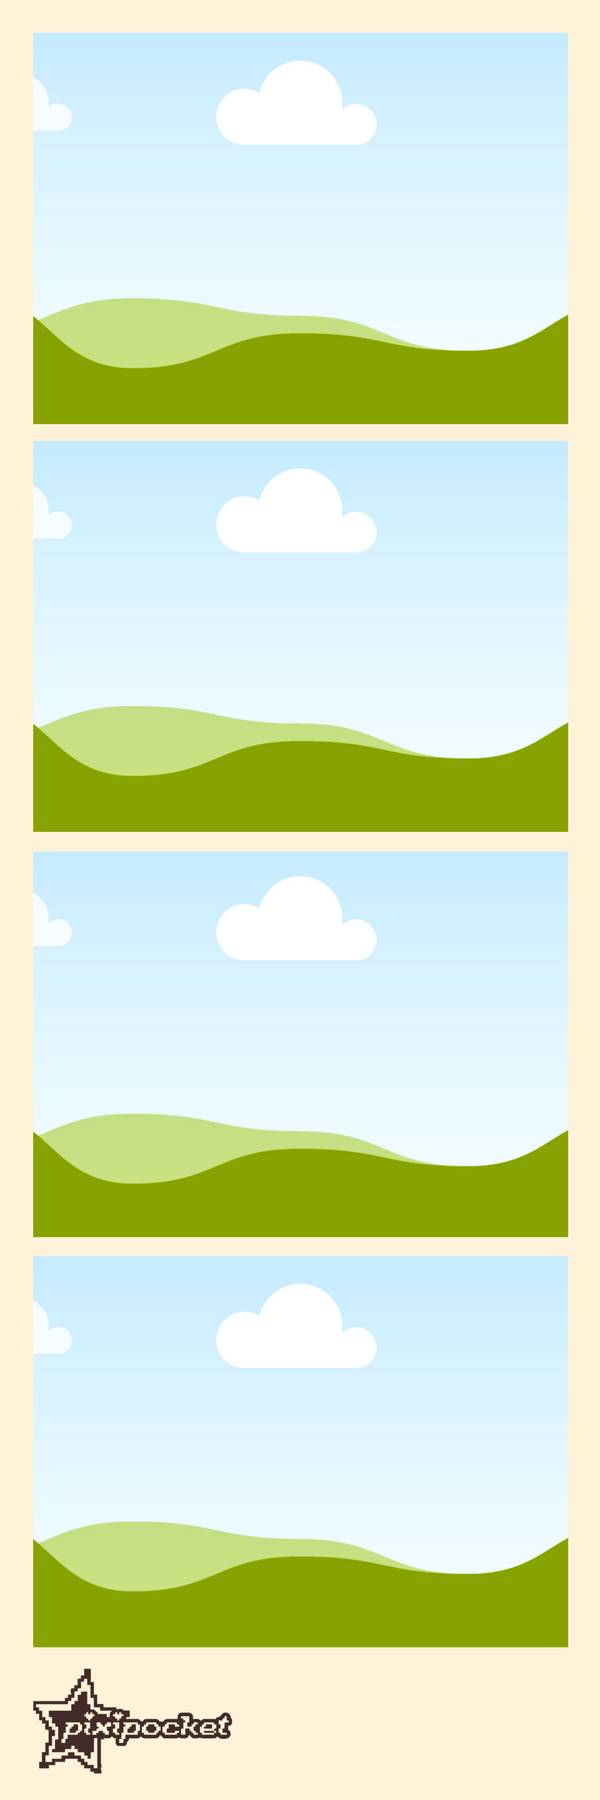
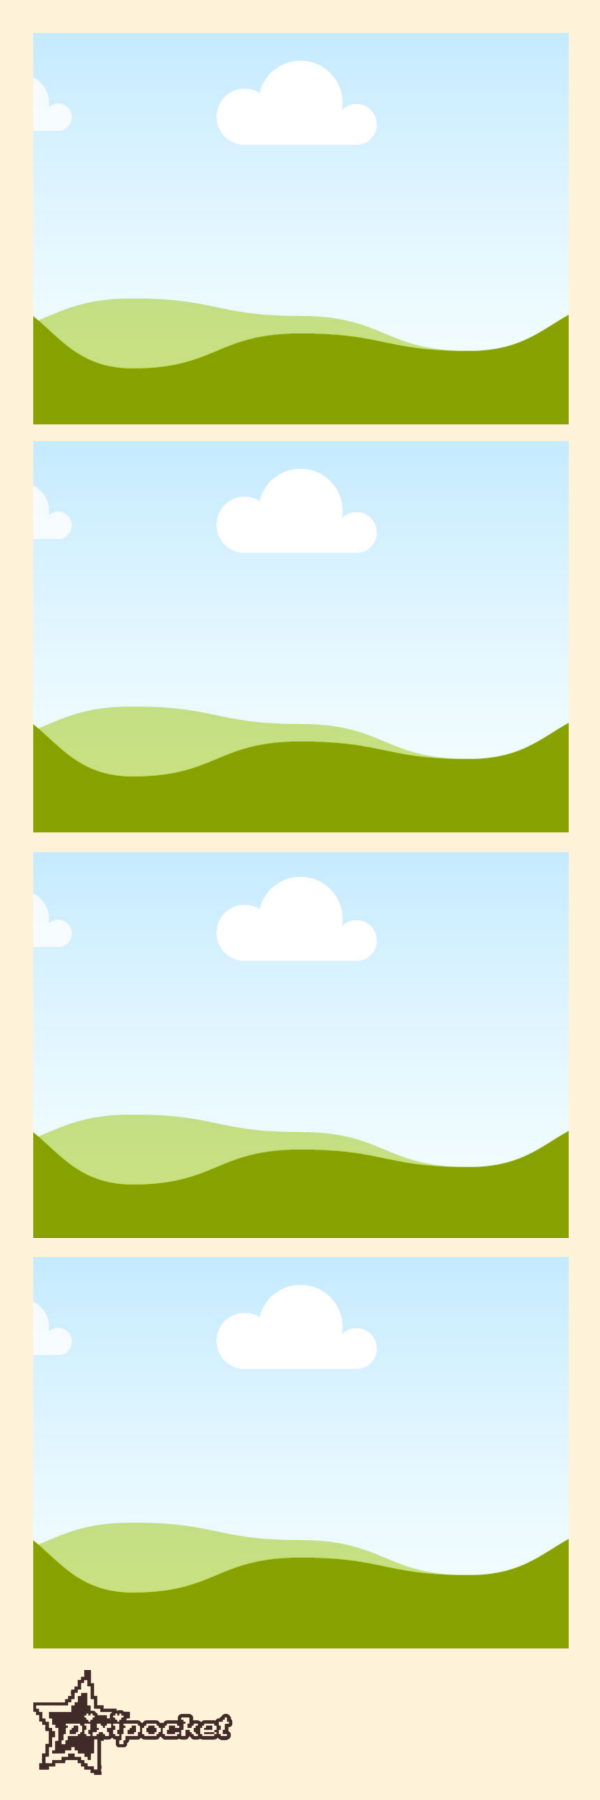
Use official color strip SVG artwork and fix strip color picker
Re-rasterize public/strips/*.png from the official SVGs in
assets/color photo strips (the old rasters no longer matched them) and
re-measure the photo windows and date line against the new artwork.
The picker read swatch/logo fields that no longer exist, so the color
squares rendered blank; read swatch/dark/hex from TEMPLATES instead, and
keep all 10 squares on one row in the wide layout.

Claude-Session: https://claude.ai/code/session_01WpNAuDr5rZ2xfUcxAKwMLr

Changed region(s): [[0.06, 0.9333, 0.39, 0.9956]]

diff --git a/pixibooth-ipad/components/StyleScreen.tsx b/pixibooth-ipad/components/StyleScreen.tsx
@@ -159,7 +159,7 @@ export function StyleScreen({ state, engine }: { state: BoothState; engine: Boot
                 role="img"
                 aria-label={`${TEMPLATES[template].label} strip with ${FILTERS[filter].label} filter`}
                 className={`block h-full w-full ${template === "white" ? "ring-1 ring-pp-blue-line" : ""}`}
-                style={{ background: TEMPLATES[template].background }}
+                style={{ background: TEMPLATES[template].hex }}
               />
             </div>
             {/* Frame source for the preview; never shown, never captured. */}
@@ -196,13 +196,13 @@ export function StyleScreen({ state, engine }: { state: BoothState; engine: Boot
           </Button>
         </div>
 
-        {/* Strip colors: rounded squares; the selected one blinks like an arcade cursor. */}
+        {/* Strip colors: rounded squares (one row when wide); the selected one blinks like an arcade cursor. */}
         <section data-enter style={{ gridArea: "colors" }} className="flex min-h-0 flex-col gap-3">
           <h2 className="flex flex-wrap items-baseline gap-x-3 font-label text-base font-bold uppercase tracking-[0.18em] text-pp-blue">
             Strip color <Jp className="opacity-80">色</Jp>
             <span className="font-pixel text-lg normal-case tracking-normal text-pp-navy">{TEMPLATES[template].label}</span>
           </h2>
-          <div role="radiogroup" aria-label="Strip color" className="grid grid-cols-4 justify-items-start gap-4 wide:flex wide:flex-wrap wide:gap-5 [@media(max-height:500px)]:flex [@media(max-height:500px)]:flex-wrap">
+          <div role="radiogroup" aria-label="Strip color" className="grid grid-cols-4 justify-items-start gap-4 wide:flex wide:items-start wide:gap-[clamp(10px,1.5vw,20px)] [@media(max-height:500px)]:flex [@media(max-height:500px)]:flex-wrap">
             {TEMPLATE_ORDER.map((t) => {
               const selected = t === template;
               const style = TEMPLATES[t];
@@ -221,12 +221,12 @@ export function StyleScreen({ state, engine }: { state: BoothState; engine: Boot
                     engine.setTemplate(t);
                     bump(cards.current[t]);
                   }}
-                  className={`relative flex size-16 shrink-0 items-center justify-center rounded-xl wide:size-[clamp(56px,9.5vh,92px)] focus-visible:outline-3 focus-visible:outline-offset-4 focus-visible:outline-pp-navy ${
+                  className={`relative flex size-16 shrink-0 items-center justify-center rounded-xl wide:aspect-square wide:size-auto wide:min-w-0 wide:shrink wide:basis-[clamp(56px,9.5vh,92px)] focus-visible:outline-3 focus-visible:outline-offset-4 focus-visible:outline-pp-navy ${
                     selected ? "animate-ring-blink" : "ring-1 ring-pp-navy/20"
                   }`}
-                  style={{ background: style.background }}
+                  style={{ background: style.swatch }}
                 >
-                  {selected && <PixelStar size={18} color={style.logo === "white" ? "#FFFFFF" : "var(--pp-navy)"} />}
+                  {selected && <PixelStar size={18} color={style.dark ? "#FFFFFF" : "var(--pp-navy)"} />}
                 </button>
               );
             })}

diff --git a/pixibooth-ipad/lib/photostrip.ts b/pixibooth-ipad/lib/photostrip.ts
@@ -16,15 +16,15 @@ export const STRIP = {
   slotHeight: 390,
   /** Date stamp: right-aligned to the frames' right edge, on the artwork logo's center line. */
   dateRight: 569,
-  dateCenterY: 1724,
+  dateCenterY: 1722,
 } as const;
 
 /** Photo windows of the official strip artwork, in 600×1800 px (measured; identical for every color). */
 export const SLOTS = [
   { x: 33, y: 32, w: 536, h: 393 },
-  { x: 33, y: 440, w: 536, h: 392 },
-  { x: 33, y: 851, w: 536, h: 387 },
-  { x: 33, y: 1255, w: 536, h: 393 },
+  { x: 33, y: 440, w: 536, h: 393 },
+  { x: 33, y: 852, w: 536, h: 386 },
+  { x: 33, y: 1256, w: 536, h: 393 },
 ] as const;
 
 export const SLOT_ASPECT = STRIP.slotWidth / STRIP.slotHeight;
@@ -45,7 +45,12 @@ export type TemplateStyle = {
   hex: string;
   /** CSS background of the picker swatch. */
   swatch: string;
-  /** Official strip artwork, rasterized at 600×1800 from assets/color photo strips/<name> strip.svg. */
+  /**
+   * Official strip artwork, rasterized at 600×1800 from assets/color photo strips/<name> strip.svg
+   * (canvas can't reliably draw those image-embedding SVGs on iPad Safari). The SVG's opaque strip
+   * (viewBox 0,0.4 to 72,215) is scaled uniformly to 1800 px tall and centered, trimming ~2 px of
+   * solid border per side; nothing is redrawn or stretched.
+   */
   src: string;
   /** Date stamp color. */
   dateInk: string;

diff --git a/pixibooth-ipad/components/PhotostripPreview.tsx b/pixibooth-ipad/components/PhotostripPreview.tsx
@@ -60,7 +60,7 @@ export function PhotostripPreview({
       role="img"
       aria-label={`${TEMPLATES[template].label} photostrip preview`}
       className={`block h-full w-full ${template === "white" ? "ring-1 ring-pp-blue-line" : ""} ${className}`}
-      style={{ background: TEMPLATES[template].background }}
+      style={{ background: TEMPLATES[template].hex }}
     />
   );
 }

diff --git a/pixibooth-ipad/README.md b/pixibooth-ipad/README.md
@@ -1,6 +1,6 @@
 # pixipocket — iPad photo booth (Phase 1 prototype)
 
-A browser-only photo booth with a cobalt-and-white, pixel-art "Japanese ID-photo kiosk" look. Flow: **welcome → style (8 strip colors + 3 filters, previewed live on the customers themselves) → camera → four 5-second shots with pose tips and countdown sounds → Keep screen (strip + one optional retake + mock QR) → animated thank-you → back to welcome**. The strip is a real 600×1800 px (2×6 in at 300 ppi) PNG with the pixipocket logo and date in its footer. Nothing is uploaded and the QR is a non-functional illustration. Photos live in memory for the current session only.
+A browser-only photo booth with a cobalt-and-white, pixel-art "Japanese ID-photo kiosk" look. Flow: **welcome → style (10 strip colors + 3 filters, previewed live on the customers themselves) → camera → four 5-second shots with pose tips and countdown sounds → Keep screen (strip + one optional retake + mock QR) → animated thank-you → back to welcome**. The strip is a real 600×1800 px (2×6 in at 300 ppi) PNG with the pixipocket logo and date in its footer. Nothing is uploaded and the QR is a non-functional illustration. Photos live in memory for the current session only.
 
 ## Run on a Mac
 
@@ -46,7 +46,7 @@ Booth tips: keep the iPad in **landscape** (groups fit better). Turn on **Guided
 |---|---|
 | `lib/boothEngine.ts` | Finite state machine (template → filter → camera → countdown/capture/pose-break → review → result), rAF/`performance.now` timers, cancellation tokens, pause/resume, wake lock, shutter sound. Lives outside React. |
 | `lib/camera.ts` | `CameraAdapter` interface + `BrowserCameraAdapter` (getUserMedia, center-cover-cropped and optionally mirrored still capture, error mapping). Swap this for a future PC/DSLR adapter. |
-| `lib/photostrip.ts` | 600×1800 layout, the 8 strip colors (with black/white logo choice), and `renderStrip()` / `renderStripPng()` used by thumbnails, preview and export. Footer = real logo PNG bottom-left, date (`DD.MM.YYYY`) directly below. |
+| `lib/photostrip.ts` | 600×1800 layout, the 10 strip colors (name, swatch, official artwork, date color) in one `TEMPLATES` table, and `renderStrip()` / `renderStripPng()` used by thumbnails, preview and export. The logo is part of the artwork (`public/strips/<color>.png`, rasterized from `assets/color photo strips/`); the date (`YYYY年M月D日`) is drawn bottom-right on the logo's center line. |
 | `lib/filters.ts` | Three filters (Auto = original, Vintage = the Canva warm-B&W recipe, Dream Film = see `lib/dreamFilm.ts`) as pure canvas pixel operations, so iPad Safari exports match the preview; CSS approximations for the live camera only. |
 | `lib/dreamFilm.ts` | Dream Film: the editable `DREAM_FILM` preset and a 5-stage WebGL pipeline (grade → soft focus → bloom → grain → edge fade) used for the live camera, previews and saved photos alike; CPU fallback in `filters.ts`. |
 | `lib/poses.ts` | Pose-tip catalog; four distinct prompts per session (cute, cheeky, stylish, freestyle). |
